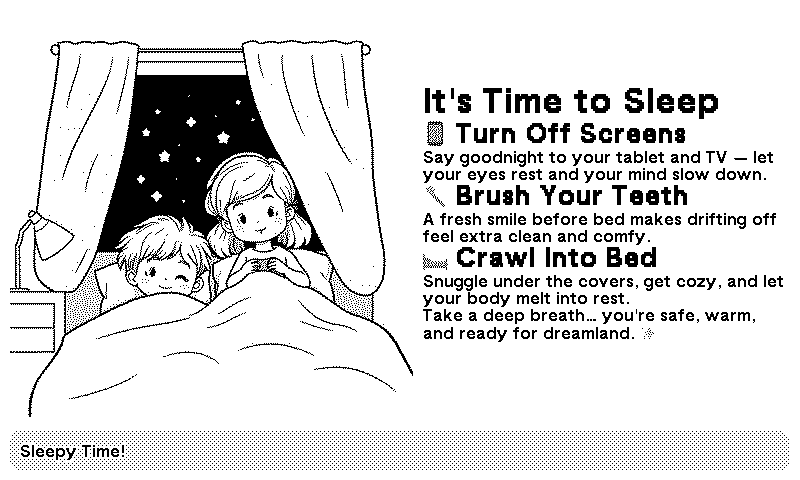
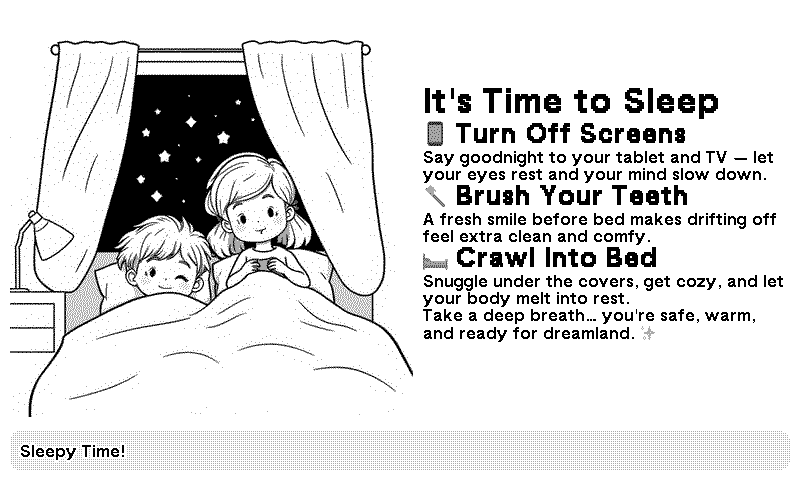
📊 Update plugin statistics in README

diff --git a/README.md b/README.md
@@ -2,12 +2,12 @@
 <!-- PLUGIN_STATS_START -->
 ## 🚀 TRMNL Plugin(s)
 
-*Last updated: 2026-05-06 08:34:38 UTC*
+*Last updated: 2026-05-07 08:41:55 UTC*
 
 
 ## <img src="assets/plugin-images/190819_icon.png" alt="Sleepy Time! icon" width="32"/> [Sleepy Time!](https://usetrmnl.com/recipes/190819)
 
-![Sleepy Time! screenshot](assets/plugin-images/190819_screenshot.bmp)
+![Sleepy Time! screenshot](assets/plugin-images/190819_screenshot.png)
 
 ### Description
 Let your loved ones know it's time to head to bed with a warm image and your personal sleepy ritual.<br /><br />Set the schedule for this plugin in your <a href='https://usetrmnl.com/playlists'>playlist</a> to match your kids bedtime.<br /><br />When setting the schedule, please take into account the refresh rate of your device's dashboard to ensure proper timing.<br /><br />To make sure it never gets buried in your playlist, mark it as <strong>important</strong>.<br />
@@ -16,7 +16,7 @@ Let your loved ones know it's time to head to bed with a warm image and your per
 
 | Metric | Value |
 |--------|-------|
-| Installs | 1 |
+| Installs | 2 |
 | Forks | 17 |
 
 ---